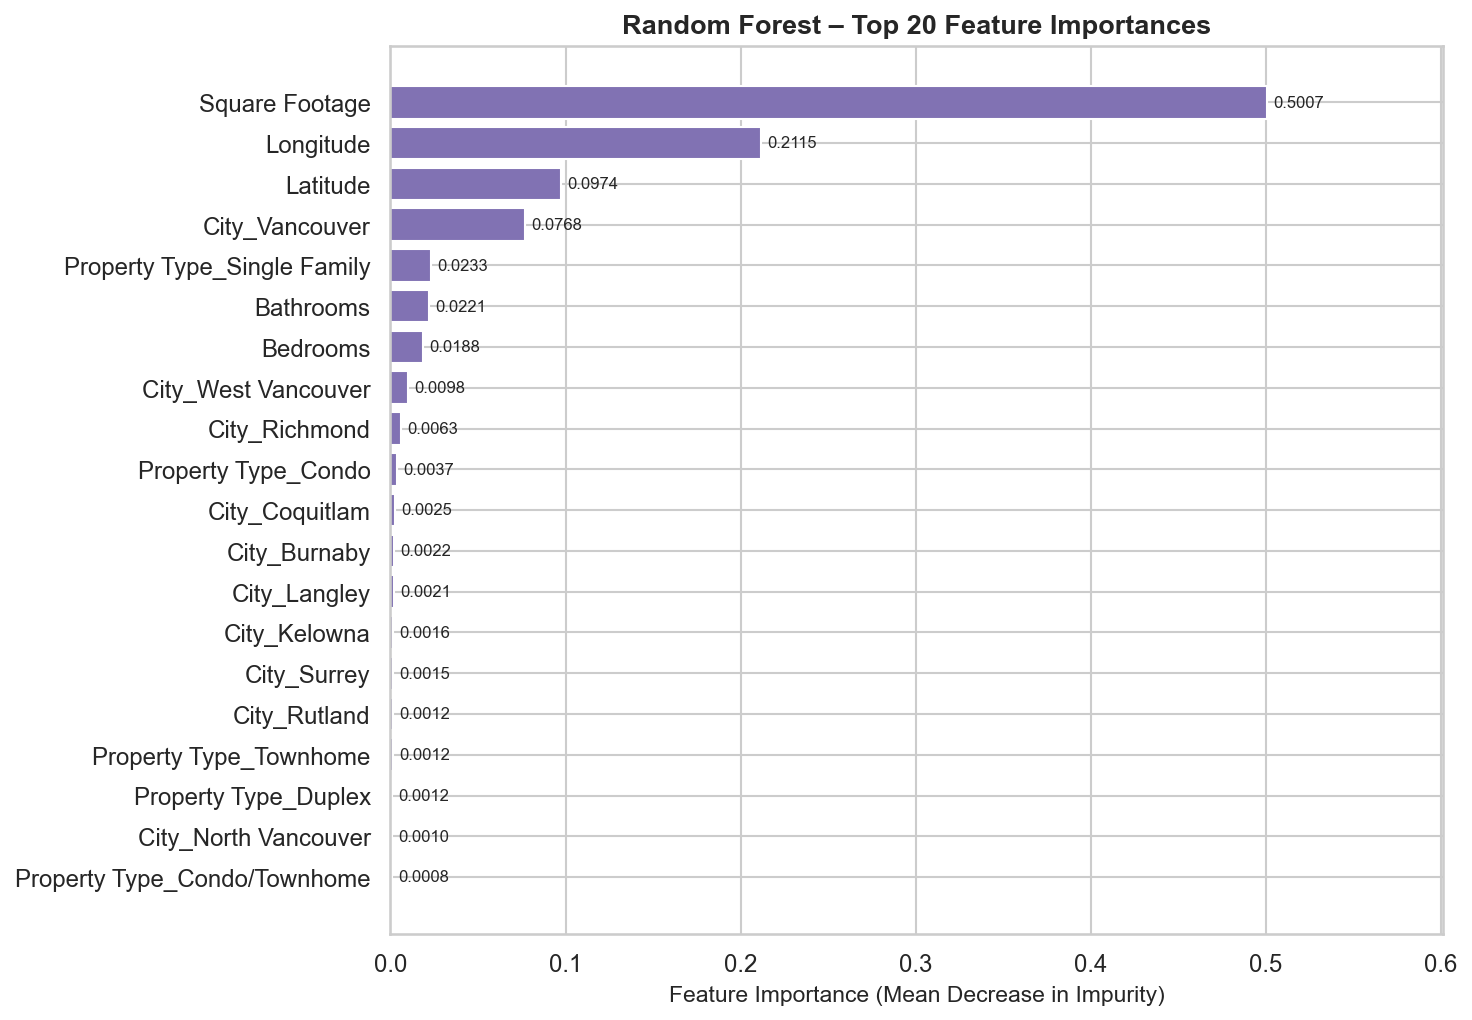
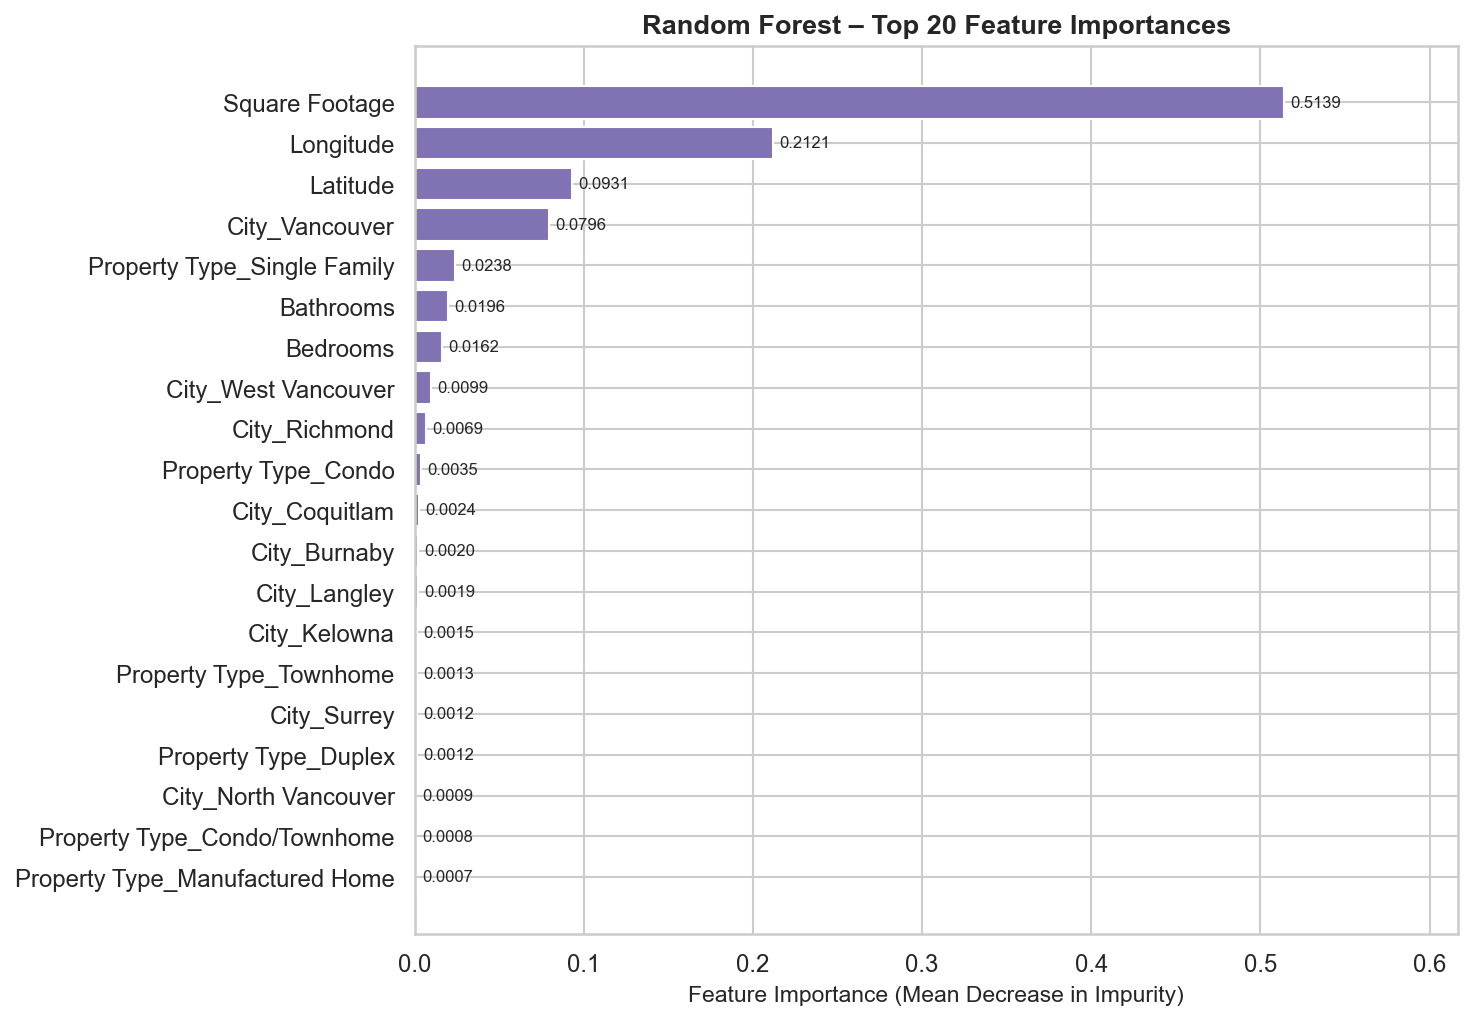
evaluating using tuned models

diff --git a/evaluation.py b/evaluation.py
@@ -46,11 +46,11 @@ lr_pipeline.fit(X_train, y_train)
  
 models = {
     "Linear Regression": lr_pipeline,
-    "Ridge": load_or_warn("ridge.pkl"),
-    "Lasso": load_or_warn("lasso.pkl"),
-    "Decision Tree": load_or_warn("decision_tree.pkl"),
-    "KNN": load_or_warn("knn.pkl"),
-    "Random Forest": load_or_warn("random_forest.pkl"),
+    "Ridge": load_or_warn("best_ridge.pkl"),
+    "Lasso": load_or_warn("best_lasso.pkl"),
+    "Decision Tree": load_or_warn("best_decision_tree.pkl"),
+    "KNN": load_or_warn("best_knn.pkl"),
+    "Random Forest": load_or_warn("best_random_forest.pkl"),
 }
 
 
